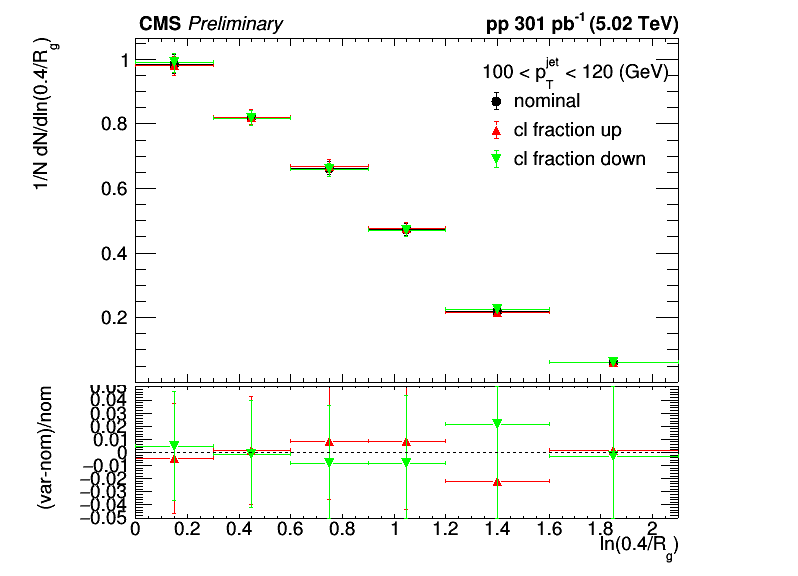
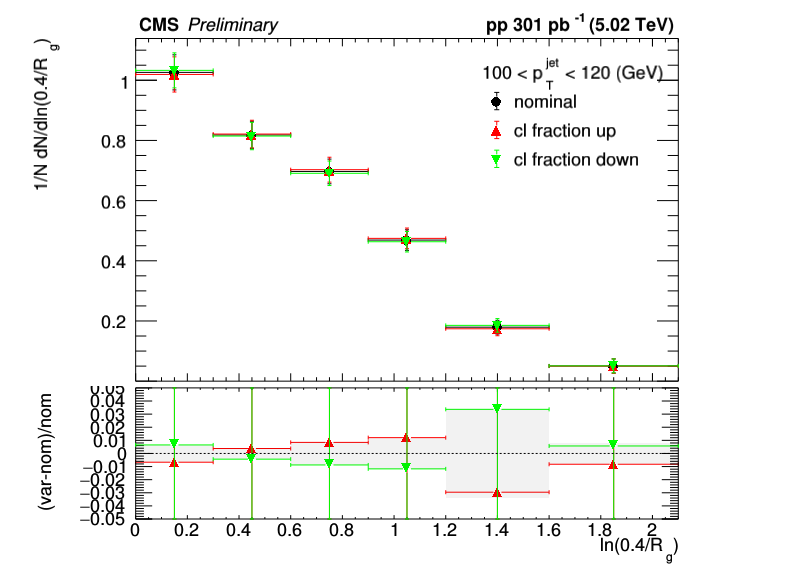
c+l fraction unc for bjet

diff --git a/myMacros/C106X/uncertanties/cl_frac_unc.C b/myMacros/C106X/uncertanties/cl_frac_unc.C
@@ -18,9 +18,9 @@ void cl_frac_unc(TString observable="rg")
 
     TFile *fin_nom = new TFile("../unfolding/histos/pythia_PF40_aggrTMVA_XXT_unfolded_histograms_"+observable+"_jer_nom_jec_nom_withSF.root");
     TH2D *h_nom = (TH2D *) fin_nom->Get("h_data_unfolded")->Clone("h_nom");
-    TFile *fin_up = new TFile("../unfolding/histos/pythia_PF40_aggrTMVA_XXT_unfolded_CLfracUp_histograms_"+observable+"_jer_nom_jec_nom_withSF.root");
+    TFile *fin_up = new TFile("../unfolding/histos/pythia_PF40_aggrTMVA_XXT_unfolded_histograms_CLfracUp_"+observable+"_jer_nom_jec_nom_withSF.root");
     TH2D *h_up = (TH2D *) fin_up->Get("h_data_unfolded")->Clone("h_up");
-    TFile *fin_down = new TFile("../unfolding/histos/pythia_PF40_aggrTMVA_XXT_unfolded_CLfracDown_histograms_"+observable+"_jer_nom_jec_nom_withSF.root");
+    TFile *fin_down = new TFile("../unfolding/histos/pythia_PF40_aggrTMVA_XXT_unfolded_histograms_CLfracDown_"+observable+"_jer_nom_jec_nom_withSF.root");
     TH2D *h_down = (TH2D *) fin_down->Get("h_data_unfolded")->Clone("h_down");
 
     int nbins_x = h_nom->GetNbinsX();
@@ -123,7 +123,8 @@ void cl_frac_unc(TString observable="rg")
         h_unc_up_rel->GetYaxis()->SetTitle("(var-nom)/nom");
         h_unc_up_rel->GetYaxis()->SetTitleOffset(2.);
         h_unc_up_rel->GetYaxis()->SetRangeUser(-0.05,0.05);
-        if (observable=="zpt") h_unc_up_rel->GetYaxis()->SetRangeUser(-0.3,0.3);
+        if (observable=="zg") h_unc_up_rel->GetYaxis()->SetRangeUser(-0.1,0.1);
+        if (observable=="zpt") h_unc_up_rel->GetYaxis()->SetRangeUser(-0.15,0.15);
         h_unc_up_rel->Write();
 
         TH1D *h_unc_down_rel = (TH1D *) h_unc_down->Clone(Form("h_unc_down_rel_%d", ibin_pt));
@@ -138,6 +139,22 @@ void cl_frac_unc(TString observable="rg")
 
         h_unc_up_rel->Draw("pe1");
         h_unc_down_rel->Draw("pe1 same");
+
+        TH1D *h_unc_rel = (TH1D *) h_unc_up_rel->Clone(Form("h_unc_rel_%d",ibin_pt));
+        TH1D *h_band = (TH1D *) h_unc_rel->Clone("h_band");
+        h_band->Reset();
+        for (int ibin_x=1; ibin_x<=h_unc_rel->GetNbinsX(); ibin_x++) {
+            double maxUnc = std::max(std::abs(h_unc_up_rel->GetBinContent(ibin_x)), std::abs(h_unc_down_rel->GetBinContent(ibin_x)));
+            h_unc_rel->SetBinContent(ibin_x, maxUnc);
+            h_band->SetBinContent(ibin_x, 0.);
+            h_band->SetBinError(ibin_x, maxUnc);
+        }
+        h_unc_rel->Write();
+
+        h_band->SetMarkerSize(0);
+        h_band->SetFillStyle(1001);
+        h_band->SetFillColorAlpha(kBlack, 0.05);
+        h_band->Draw("e2 same");
         
         TLine *line = new TLine(h_unc_up->GetXaxis()->GetBinLowEdge(ibin_x_min), 0, h_unc_up->GetXaxis()->GetBinUpEdge(ibin_x_max), 0);
         line->SetLineStyle(kDashed);
@@ -146,8 +163,6 @@ void cl_frac_unc(TString observable="rg")
         c_cl_frac->cd();
         top_pads[ipad]->Draw();
         bottom_pads[ipad]->Draw();
-
-        
     }
 
     c_cl_frac->Draw();
